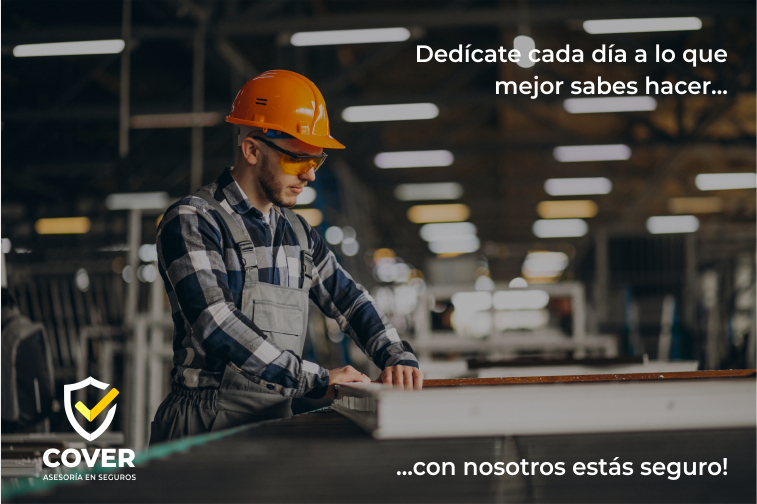
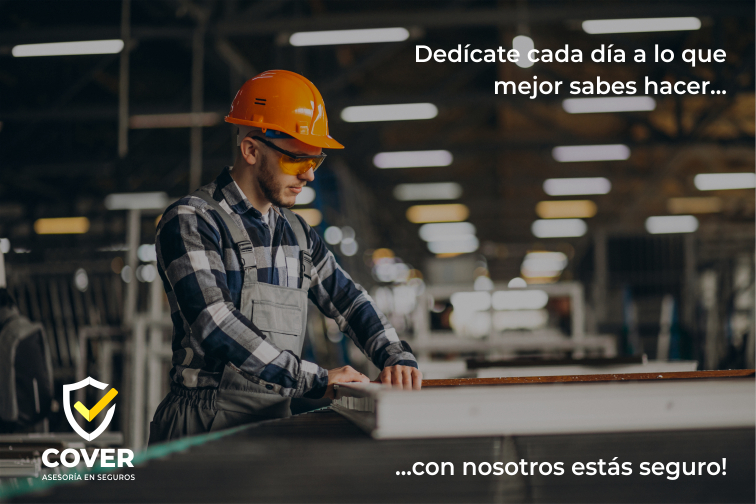
cambie tamaños imagenes de carousel, se puso modales responsive y cambio de mediaquery del footer

diff --git a/compañias.html b/compañias.html
@@ -154,7 +154,7 @@
                             <a href="#" class="container__col-12">
                             <img src="Multimedia/exit-icon.svg" class="exit">
                             </a>
-                            <iframe width="320" height="180" src="https://www.youtube.com/embed/t7zXTLhhemU" frameborder="0" allow="accelerometer; autoplay; clipboard-write; encrypted-media; gyroscope; picture-in-picture" allowfullscreen class="container-fluid"></iframe>
+                            <iframe width="320" height="180" src="https://www.youtube.com/embed/t7zXTLhhemU" frameborder="0" allow="accelerometer; autoplay; clipboard-write; encrypted-media; gyroscope; picture-in-picture" allowfullscreen class="container container--fluid"></iframe>
                         </div>
                     </div>
 
@@ -164,7 +164,7 @@
                             <a href="#" class="container__col-12">
                             <img src="Multimedia/exit-icon.svg" class="exit">
                             </a>
-                            <iframe width="320" height="180" src="https://www.youtube.com/embed/Rt0K0_74h3g" frameborder="0" allow="accelerometer; autoplay; clipboard-write; encrypted-media; gyroscope; picture-in-picture" allowfullscreen class="container-fluid"></iframe>
+                            <iframe width="320" height="180" src="https://www.youtube.com/embed/Rt0K0_74h3g" frameborder="0" allow="accelerometer; autoplay; clipboard-write; encrypted-media; gyroscope; picture-in-picture" allowfullscreen class="container container--fluid"></iframe>
                         </div>
                     </div>
 
@@ -174,7 +174,7 @@
                             <a href="#" class="container__col-12">
                             <img src="Multimedia/exit-icon.svg" class="exit">
                             </a>
-                            <iframe width="320" height="180" src="https://www.youtube.com/embed/e6RycwefjoI" frameborder="0" allow="accelerometer; autoplay; clipboard-write; encrypted-media; gyroscope; picture-in-picture" allowfullscreen class="container-fluid"></iframe>
+                            <iframe width="320" height="180" src="https://www.youtube.com/embed/e6RycwefjoI" frameborder="0" allow="accelerometer; autoplay; clipboard-write; encrypted-media; gyroscope; picture-in-picture" allowfullscreen class="container container--fluid"></iframe>
                         </div>
                     </div>
 
@@ -184,7 +184,7 @@
                             <a href="#" class="container__col-12">
                             <img src="Multimedia/exit-icon.svg" class="exit">
                             </a>
-                            <iframe width="320" height="180" src="https://www.youtube.com/embed/jJbEKmm_jBE" frameborder="0" allow="accelerometer; autoplay; clipboard-write; encrypted-media; gyroscope; picture-in-picture" allowfullscreen class="container-fluid"></iframe>
+                            <iframe width="320" height="180" src="https://www.youtube.com/embed/jJbEKmm_jBE" frameborder="0" allow="accelerometer; autoplay; clipboard-write; encrypted-media; gyroscope; picture-in-picture" allowfullscreen class="container container--fluid"></iframe>
                         </div>
                     </div>
 
@@ -194,7 +194,7 @@
                             <a href="#" class="container__col-12">
                             <img src="Multimedia/exit-icon.svg" class="exit">
                             </a>
-                            <iframe width="320" height="180" src="https://www.youtube.com/embed/3tds2s4Ql-g" frameborder="0" allow="accelerometer; autoplay; clipboard-write; encrypted-media; gyroscope; picture-in-picture" allowfullscreen class="container-fluid"></iframe>
+                            <iframe width="320" height="180" src="https://www.youtube.com/embed/3tds2s4Ql-g" frameborder="0" allow="accelerometer; autoplay; clipboard-write; encrypted-media; gyroscope; picture-in-picture" allowfullscreen class="container container--fluid"></iframe>
                         </div>
                     </div>
                 </div>
@@ -204,19 +204,19 @@
         <footer class="pie">
             <div class="container container--fluid">
                 <div class="container__row">
-                    <div class="pie__izq container__col-md-4 container__col-12">
+                    <div class="pie__izq container__col-lg-4 container__col-12">
                         <i class="fa fa-envelope"></i>
                         <p>E-mail: ramirochaile@gmail.com</p>
                     </div>
-                    <div class="pie__izq container__col-md-4 container__col-12">
+                    <div class="pie__izq container__col-lg-4 container__col-12">
                         <a href="https://wa.link/25ui5s">
                             <i class="fa fa-whatsapp"></i>
                         </a>
                         
-                        <p>Teléfono: XXX XXX XXXX</p>
+                        <p>Tel: XXX XXX XXXX</p>
                     </div>
 
-                    <section class="pie__der container__col-md-4 container__col-12">
+                    <section class="pie__der container__col-lg-4 container__col-12">
                         <p>Redes Sociales</p>
                 
                         <a href="https://www.facebook.com/COVER-Asesor%C3%ADa-en-Seguros-105565467604533">

diff --git a/contacto.html b/contacto.html
@@ -124,19 +124,19 @@
         <footer class="pie">
             <div class="container container--fluid">
                 <div class="container__row">
-                    <div class="pie__izq container__col-md-4 container__col-12">
+                    <div class="pie__izq container__col-lg-4 container__col-12">
                         <i class="fa fa-envelope"></i>
                         <p>E-mail: ramirochaile@gmail.com</p>
                     </div>
-                    <div class="pie__izq container__col-md-4 container__col-12">
+                    <div class="pie__izq container__col-lg-4 container__col-12">
                         <a href="https://wa.link/25ui5s">
                             <i class="fa fa-whatsapp"></i>
                         </a>
                         
-                        <p>Teléfono: XXX XXX XXXX</p>
+                        <p>Tel: XXX XXX XXXX</p>
                     </div>
 
-                    <section class="pie__der container__col-md-4 container__col-12">
+                    <section class="pie__der container__col-lg-4 container__col-12">
                         <p>Redes Sociales</p>
                 
                         <a href="https://www.facebook.com/COVER-Asesor%C3%ADa-en-Seguros-105565467604533">

diff --git a/productos.html b/productos.html
@@ -135,19 +135,19 @@
         <footer class="pie">
             <div class="container container--fluid">
                 <div class="container__row">
-                    <div class="pie__izq container__col-md-4 container__col-12">
+                    <div class="pie__izq container__col-lg-4 container__col-12">
                         <i class="fa fa-envelope"></i>
                         <p>E-mail: ramirochaile@gmail.com</p>
                     </div>
-                    <div class="pie__izq container__col-md-4 container__col-12">
+                    <div class="pie__izq container__col-lg-4 container__col-12">
                         <a href="https://wa.link/25ui5s">
                             <i class="fa fa-whatsapp"></i>
                         </a>
                         
-                        <p>Teléfono: XXX XXX XXXX</p>
+                        <p>Tel: XXX XXX XXXX</p>
                     </div>
 
-                    <section class="pie__der container__col-md-4 container__col-12">
+                    <section class="pie__der container__col-lg-4 container__col-12">
                         <p>Redes Sociales</p>
                 
                         <a href="https://www.facebook.com/COVER-Asesor%C3%ADa-en-Seguros-105565467604533">

diff --git a/sobre-nosotros.html b/sobre-nosotros.html
@@ -90,19 +90,19 @@
         <footer class="pie">
             <div class="container container--fluid">
                 <div class="container__row">
-                    <div class="pie__izq container__col-md-4 container__col-12">
+                    <div class="pie__izq container__col-lg-4 container__col-12">
                         <i class="fa fa-envelope"></i>
                         <p>E-mail: ramirochaile@gmail.com</p>
                     </div>
-                    <div class="pie__izq container__col-md-4 container__col-12">
+                    <div class="pie__izq container__col-lg-4 container__col-12">
                         <a href="https://wa.link/25ui5s">
                             <i class="fa fa-whatsapp"></i>
                         </a>
                         
-                        <p>Teléfono: XXX XXX XXXX</p>
+                        <p>Tel: XXX XXX XXXX</p>
                     </div>
 
-                    <section class="pie__der container__col-md-4 container__col-12">
+                    <section class="pie__der container__col-lg-4 container__col-12">
                         <p>Redes Sociales</p>
                 
                         <a href="https://www.facebook.com/COVER-Asesor%C3%ADa-en-Seguros-105565467604533">

diff --git a/index.html b/index.html
@@ -158,11 +158,11 @@
         <footer class="pie">
             <div class="container container--fluid">
                 <div class="container__row">
-                    <div class="pie__izq container__col-md-4 container__col-12">
+                    <div class="pie__izq container__col-lg-4 container__col-12">
                         <i class="fa fa-envelope"></i>
                         <p>E-mail: ramirochaile@gmail.com</p>
                     </div>
-                    <div class="pie__izq container__col-md-4 container__col-12">
+                    <div class="pie__izq container__col-lg-4 container__col-12">
                         <a href="https://wa.link/25ui5s">
                             <i class="fa fa-whatsapp"></i>
                         </a>
@@ -170,7 +170,7 @@
                         <p>Tel: XXX XXX XXXX</p>
                     </div>
 
-                    <section class="pie__der container__col-md-4 container__col-12">
+                    <section class="pie__der container__col-lg-4 container__col-12">
                         <p>Redes Sociales</p>
                 
                         <a href="https://www.facebook.com/COVER-Asesor%C3%ADa-en-Seguros-105565467604533">

diff --git a/css/estilos.css b/css/estilos.css
@@ -1,3 +1,4 @@
+@charset "UTF-8";
 @import url("https://fonts.googleapis.com/css2?family=Lato:ital,wght@0,300;0,400;1,300;1,400&family=Montserrat:ital,wght@0,300;0,400;0,600;0,700;1,300;1,400;1,600;1,700&display=swap");
 * {
   margin: 0;
@@ -723,26 +724,27 @@ p {
   align-items: center;
 }
 
-/* Slideshow container */
+/* Contenedor carousel */
 .slideshow-container {
   max-width: 1000px;
+  min-width: 320px;
   width: 70%;
   position: relative;
   margin: auto;
 }
-.slideshow-container img {
-  width: 100%;
-}
 
 .mySlides {
   display: none;
+}
+.mySlides img {
+  width: 100%;
 }
 
 /* Botones de adelante y atras */
 .prev, .next {
   cursor: pointer;
   position: absolute;
-  top: 50%;
+  top: 45%;
   width: auto;
   margin-top: -22px;
   padding: 16px;
@@ -784,7 +786,7 @@ p {
   padding: 8px;
 }
 
-/* Fading animation */
+/* Animación de Fade */
 .fade {
   animation-name: fade;
   animation-duration: 0.5s;

diff --git a/sass/_carousel.scss b/sass/_carousel.scss
@@ -1,24 +1,25 @@
-/* Slideshow container */
+/* Contenedor carousel */
 .slideshow-container {
     max-width: 1000px;
+    min-width: 320px;
     width: 70%;
     position: relative;
     margin: auto;
-
-    img {
-        width: 100%;
-        }
   }
   
   .mySlides {
     display: none;
+    
+    img {
+      width: 100%;
+      }
   }
   
   /* Botones de adelante y atras */
   .prev, .next {
     cursor: pointer;
     position: absolute;
-    top: 50%;
+    top: 45%;
     width: auto;
     margin-top: -22px;
     padding: 16px;
@@ -32,7 +33,8 @@
     right: 0;
     border-radius: 8px 0 0 8px;
   }
-  
+    
+    
  .prev:hover, .next:hover {
     background-color: $colormain1;
   }
@@ -60,7 +62,7 @@
       padding:8px;
   }
   
-  /* Fading animation */
+  /* Animación de Fade */
   .fade {
     animation-name: fade;
     animation-duration: 0.5s;
